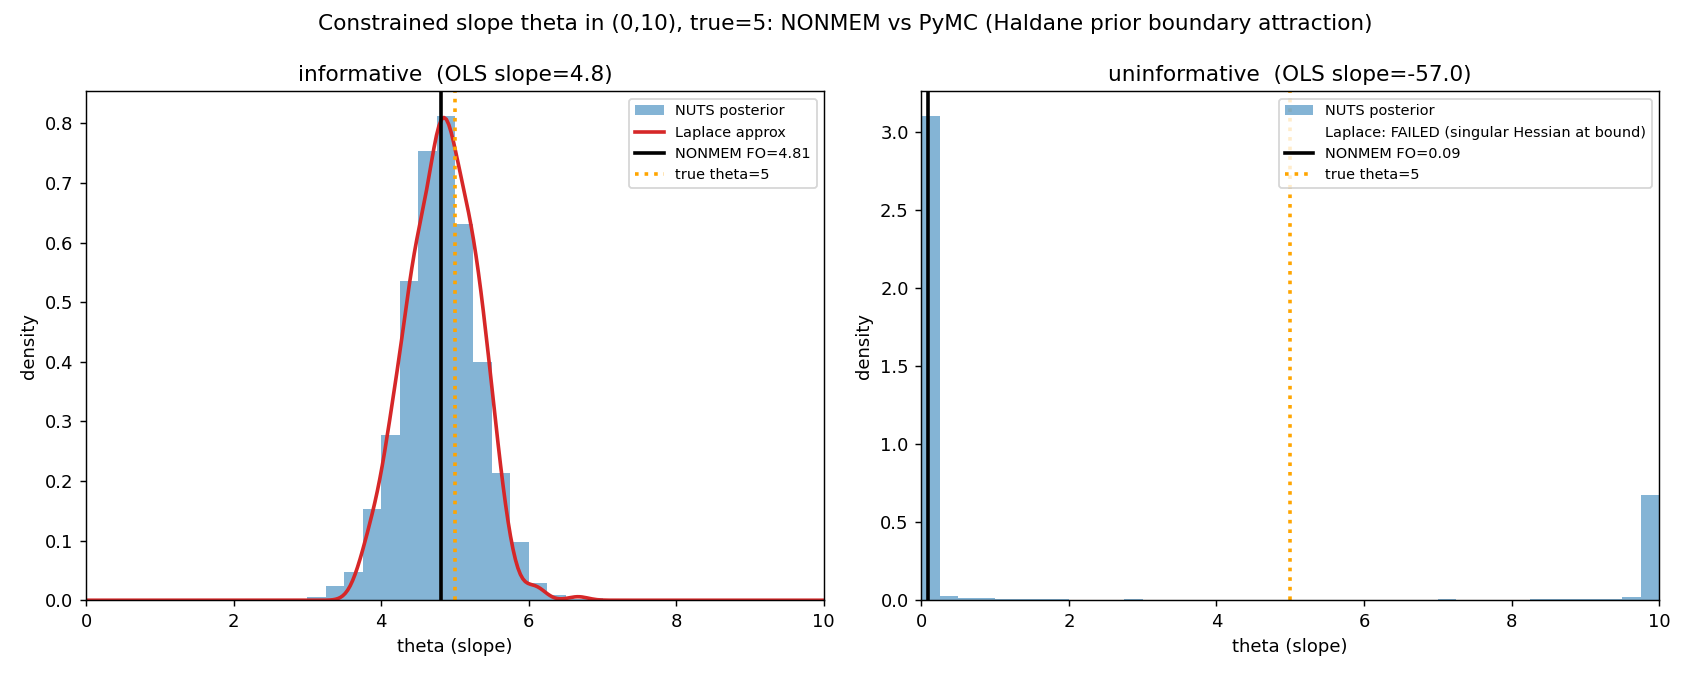
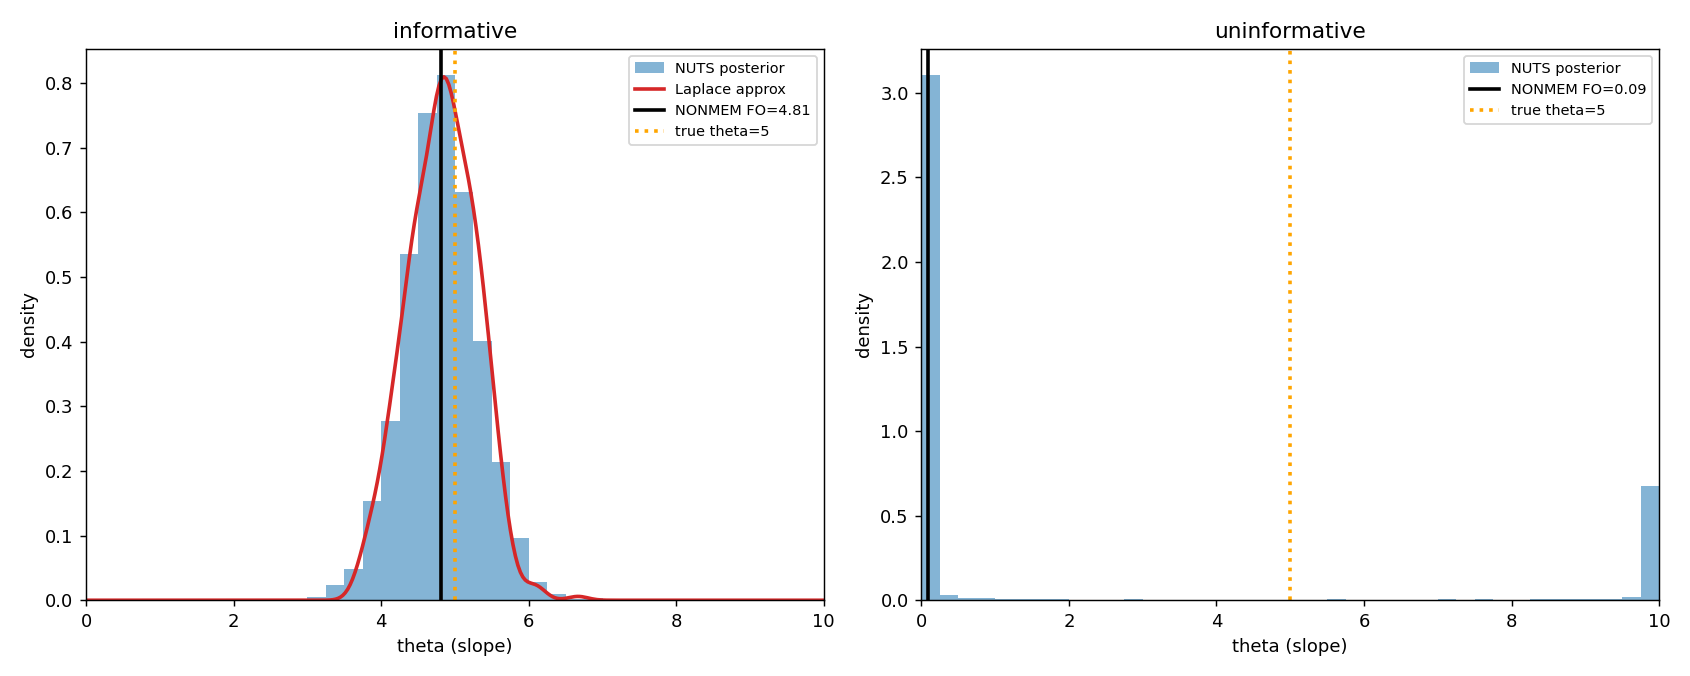
Update minor errors

diff --git a/docs/posts/202607_haldane/index.html b/docs/posts/202607_haldane/index.html
@@ -79,9 +79,9 @@ pre > code.sourceCode > span > a:first-child::before { text-decoration: underlin
 <link href="../../site_libs/quarto-html/quarto-syntax-highlighting-ed96de9b727972fe78a7b5d16c58bf87.css" rel="stylesheet" class="quarto-color-scheme-extra" id="quarto-text-highlighting-styles">
 <script src="../../site_libs/bootstrap/bootstrap.min.js"></script>
 <link href="../../site_libs/bootstrap/bootstrap-icons.css" rel="stylesheet">
-<link href="../../site_libs/bootstrap/bootstrap-960d9d362f81d399278ec3e29b622b37.min.css" rel="stylesheet" append-hash="true" class="quarto-color-scheme" id="quarto-bootstrap" data-mode="light">
-<link href="../../site_libs/bootstrap/bootstrap-dark-7c8e055e70d4b6a1e9086eb41eca0607.min.css" rel="stylesheet" append-hash="true" class="quarto-color-scheme quarto-color-alternate" id="quarto-bootstrap" data-mode="dark">
-<link href="../../site_libs/bootstrap/bootstrap-960d9d362f81d399278ec3e29b622b37.min.css" rel="stylesheet" append-hash="true" class="quarto-color-scheme-extra" id="quarto-bootstrap" data-mode="light">
+<link href="../../site_libs/bootstrap/bootstrap-ffa9a6279353761231ec249df0a7fdd3.min.css" rel="stylesheet" append-hash="true" class="quarto-color-scheme" id="quarto-bootstrap" data-mode="light">
+<link href="../../site_libs/bootstrap/bootstrap-dark-bae33c85dea990b555726d9e885fc0e5.min.css" rel="stylesheet" append-hash="true" class="quarto-color-scheme quarto-color-alternate" id="quarto-bootstrap" data-mode="dark">
+<link href="../../site_libs/bootstrap/bootstrap-ffa9a6279353761231ec249df0a7fdd3.min.css" rel="stylesheet" append-hash="true" class="quarto-color-scheme-extra" id="quarto-bootstrap" data-mode="light">
 <script id="quarto-search-options" type="application/json">{
   "location": "navbar",
   "copy-button": false,
@@ -537,8 +537,8 @@ Table&nbsp;1: Summary of the NONMEM runs on both datasets
 </div>
 </figure>
 </div>
-<p>The informative fit converges in 21 evaluations to the interior truth. The uninformative fit dives to the lower bound within ~10 iterations, and gets stuck there until MAXEVAL kicks in. The transformed-scale gradient stays pinned at a tiny scale the whole way, the vanishing gradient of <a href="#sec-transform" class="quarto-xref">Section&nbsp;1</a>.</p>
-<p><a href="#fig-nonmem-diag" class="quarto-xref">Figure&nbsp;3</a> shows both runs iteration by iteration. The informative optimiser settles at the interior truth in a handful of steps with a gradient that starts at <span class="math inline">\(3.8\)</span> and decays to zero. With the uninformative dataset, the optimiser plunges to the lower bound, even though the parameter was initialised at the true value.</p>
+<p>The informative fit converges in 21 evaluations towards the true value. The uninformative fit dives to the lower bound within ~10 iterations, and gets stuck there until MAXEVAL kicks in. The transformed-scale gradient stays pinned at a tiny scale the whole way, the vanishing gradient of <a href="#sec-transform" class="quarto-xref">Section&nbsp;1</a>.</p>
+<p><a href="#fig-nonmem-diag" class="quarto-xref">Figure&nbsp;3</a> shows both runs iteration by iteration. The informative optimiser settles around the true value in a handful of steps with a gradient that starts at <span class="math inline">\(3.8\)</span> and decays to zero. With the uninformative dataset, the optimiser plunges to the lower bound, even though the parameter was initialised at the true value.</p>
 <div class="callout callout-style-default callout-note callout-titled">
 <div class="callout-header d-flex align-content-center">
 <div class="callout-icon-container">
@@ -558,7 +558,7 @@ Table&nbsp;1: Summary of the NONMEM runs on both datasets
 <img src="nonmem_diagnostics.png" class="img-fluid figure-img">
 </div>
 <figcaption class="quarto-float-caption-bottom quarto-float-caption quarto-float-fig" id="fig-nonmem-diag-caption-0ceaefa1-69ba-4598-a22c-09a6ac19f8ca">
-Figure&nbsp;3: NONMEM optimiser traces. Top: the slope estimate vs iteration. Informative (left) converges at the interior truth; uninformative (right) dives to the lower bound. Bottom: the gradient of the objective on the transformed scale.
+Figure&nbsp;3: NONMEM optimiser traces. Top: the slope estimate vs iteration. Informative (left) converges towards the true value; uninformative (right) dives to the lower bound. Bottom: the gradient of the objective on the transformed scale.
 </figcaption>
 </figure>
 </div>